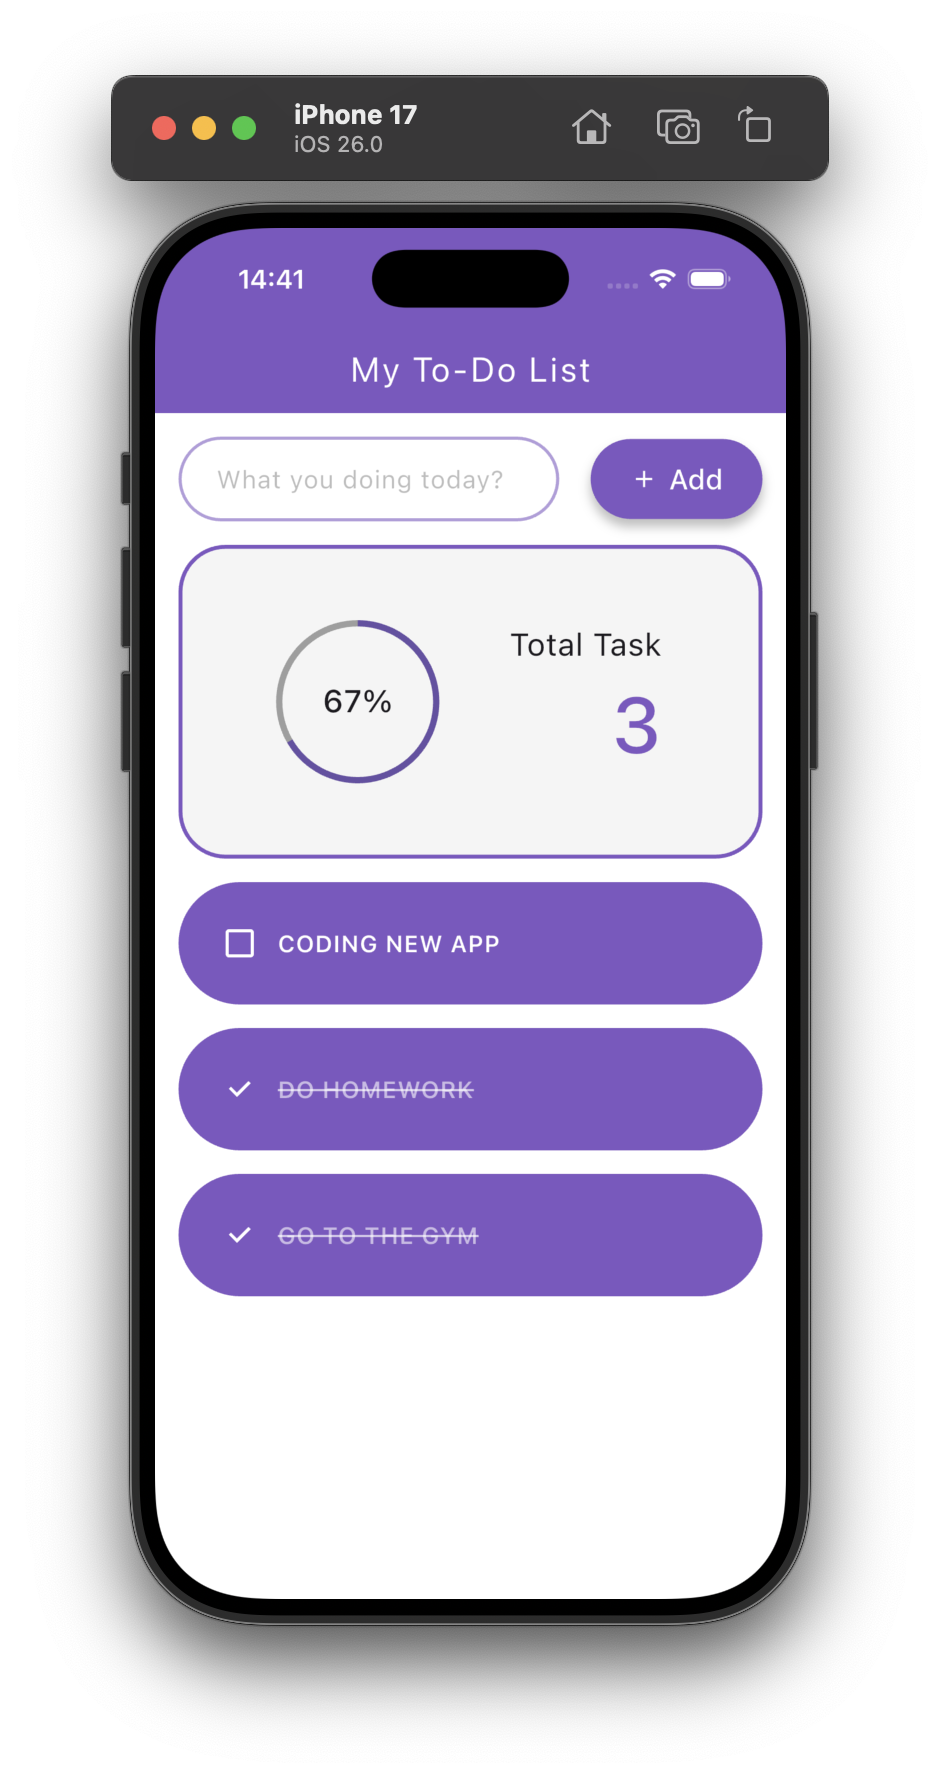
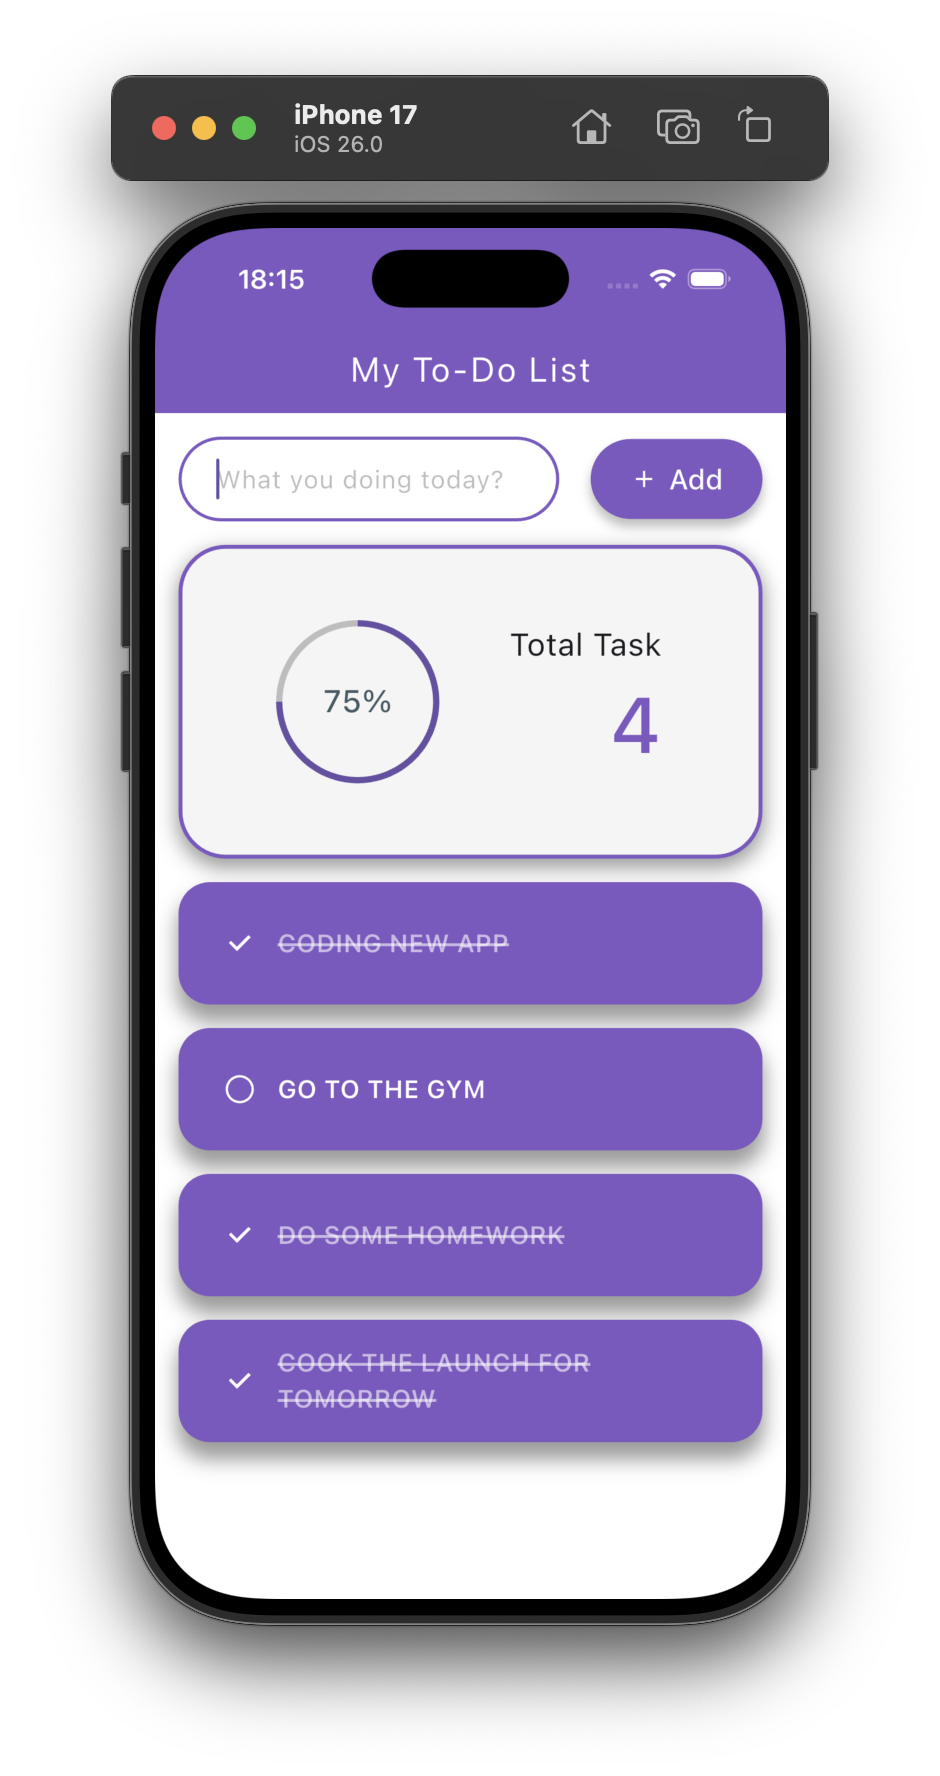
update README

diff --git a/lib/models/task.dart b/lib/models/task.dart
@@ -28,13 +28,13 @@ class Task extends StatelessWidget {
               BoxShadow(
                 color: Colors.black.withAlpha(100), // shadow color
                 blurRadius: 10,
-                spreadRadius: 2,
+                spreadRadius: 1,
                 offset: Offset(0, 10),
               ),
             ],
           ),
           child: Padding(
-            padding: EdgeInsetsGeometry.fromLTRB(15, 15, 15, 15),
+            padding: EdgeInsetsGeometry.fromLTRB(15, 15, 25, 15),
             child: Row(
               children: [
                 Checkbox(
@@ -50,11 +50,10 @@ class Task extends StatelessWidget {
                   child: Text(
                     taskName.toUpperCase(),
                     style: TextStyle(
-                      letterSpacing: 0.5,
                       color: taskCompleted
                           ? Colors.white.withAlpha(150)
                           : Colors.white,
-                      fontSize: 15,
+                      fontSize: 16,
                       fontWeight: FontWeight.w600,
                       decoration: taskCompleted
                           ? TextDecoration.lineThrough

diff --git a/lib/utilities/my_box.dart b/lib/utilities/my_box.dart
@@ -20,6 +20,14 @@ class MyBox extends StatelessWidget {
         width: double.infinity,
         height: 200,
         decoration: BoxDecoration(
+          boxShadow: [
+            BoxShadow(
+              color: Colors.black.withAlpha(100), // shadow color
+              blurRadius: 10,
+              spreadRadius: 1,
+              offset: Offset(0, 5),
+            ),
+          ],
           border: BoxBorder.all(width: 2.5, color: Colors.deepPurple[400]!),
           color: Colors.grey[100],
           borderRadius: BorderRadius.circular(30),
